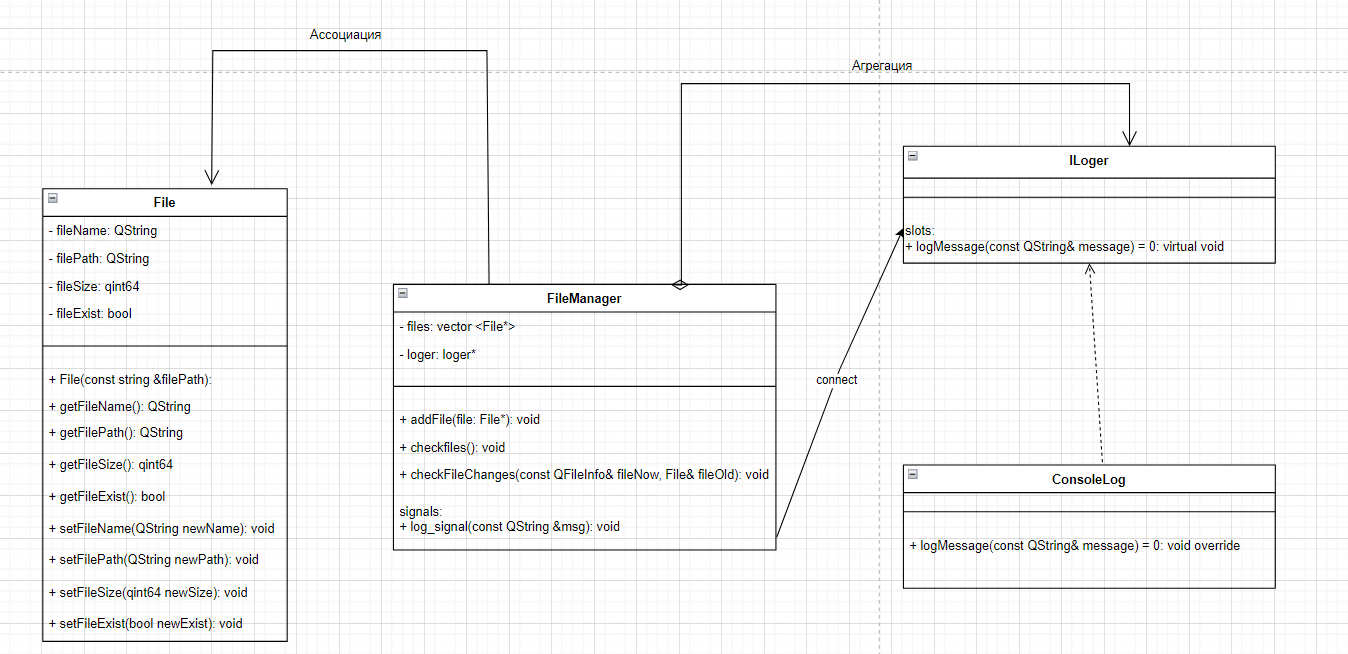
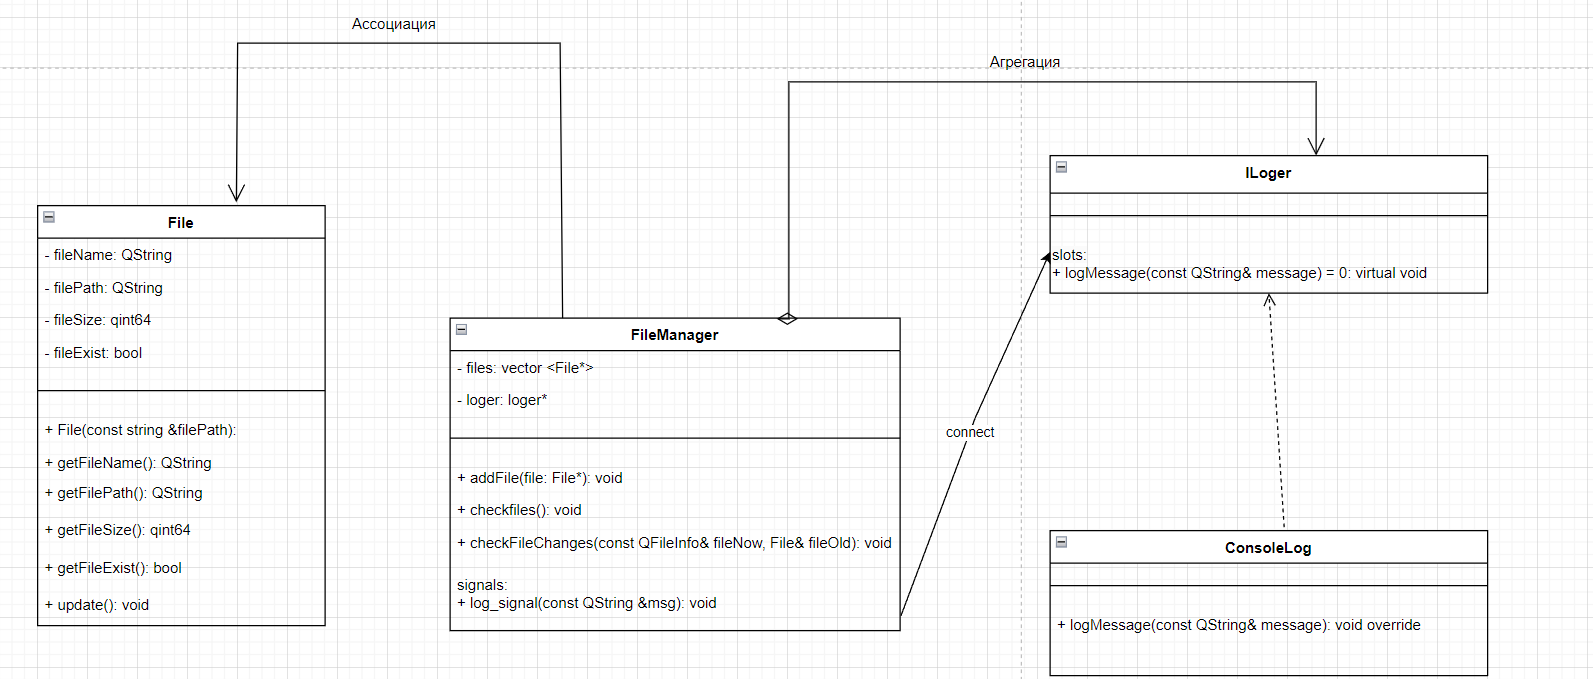
update UML and delete setter in file.cpp which i forgot

diff --git a/file.cpp b/file.cpp
@@ -28,5 +28,5 @@ void File::update()
     fileSize = fileinfo.size();
 }
 
-void File::setFileSize(qint64 size) {this->fileSize = size;}
-void File::setFileExist(bool newExist) {this->fileExist = newExist;}
+// void File::setFileSize(qint64 size) {this->fileSize = size;}
+// void File::setFileExist(bool newExist) {this->fileExist = newExist;}
